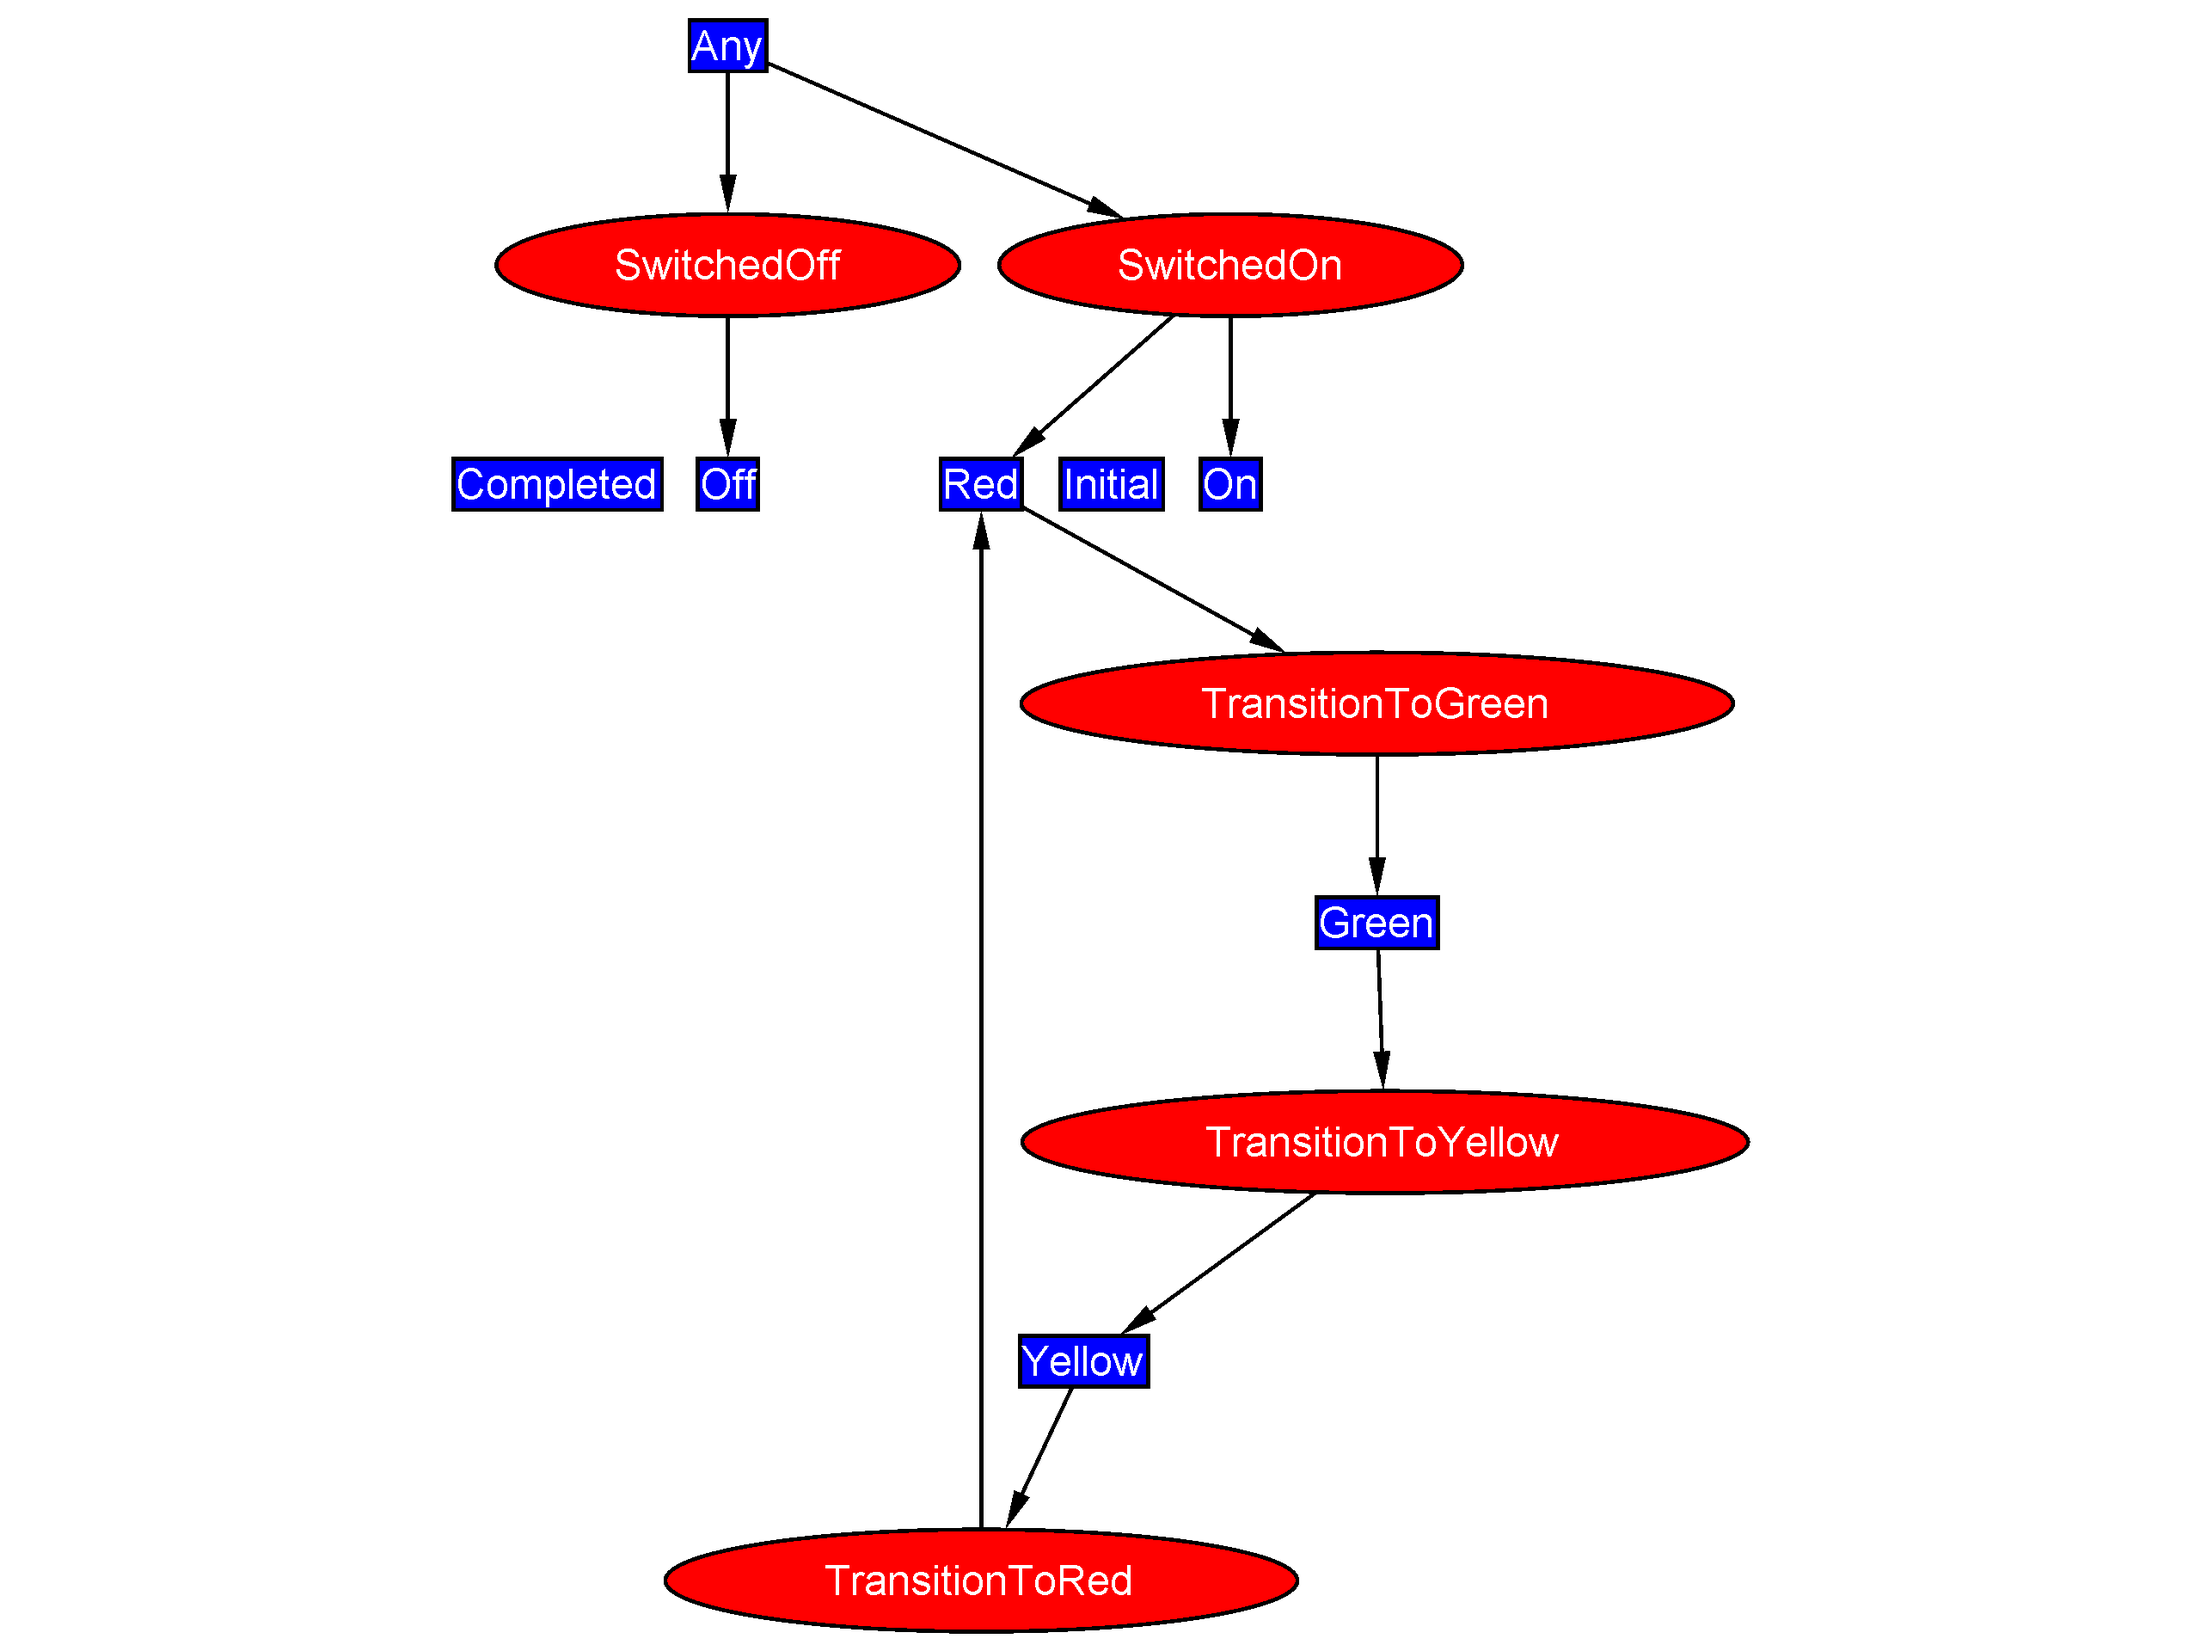
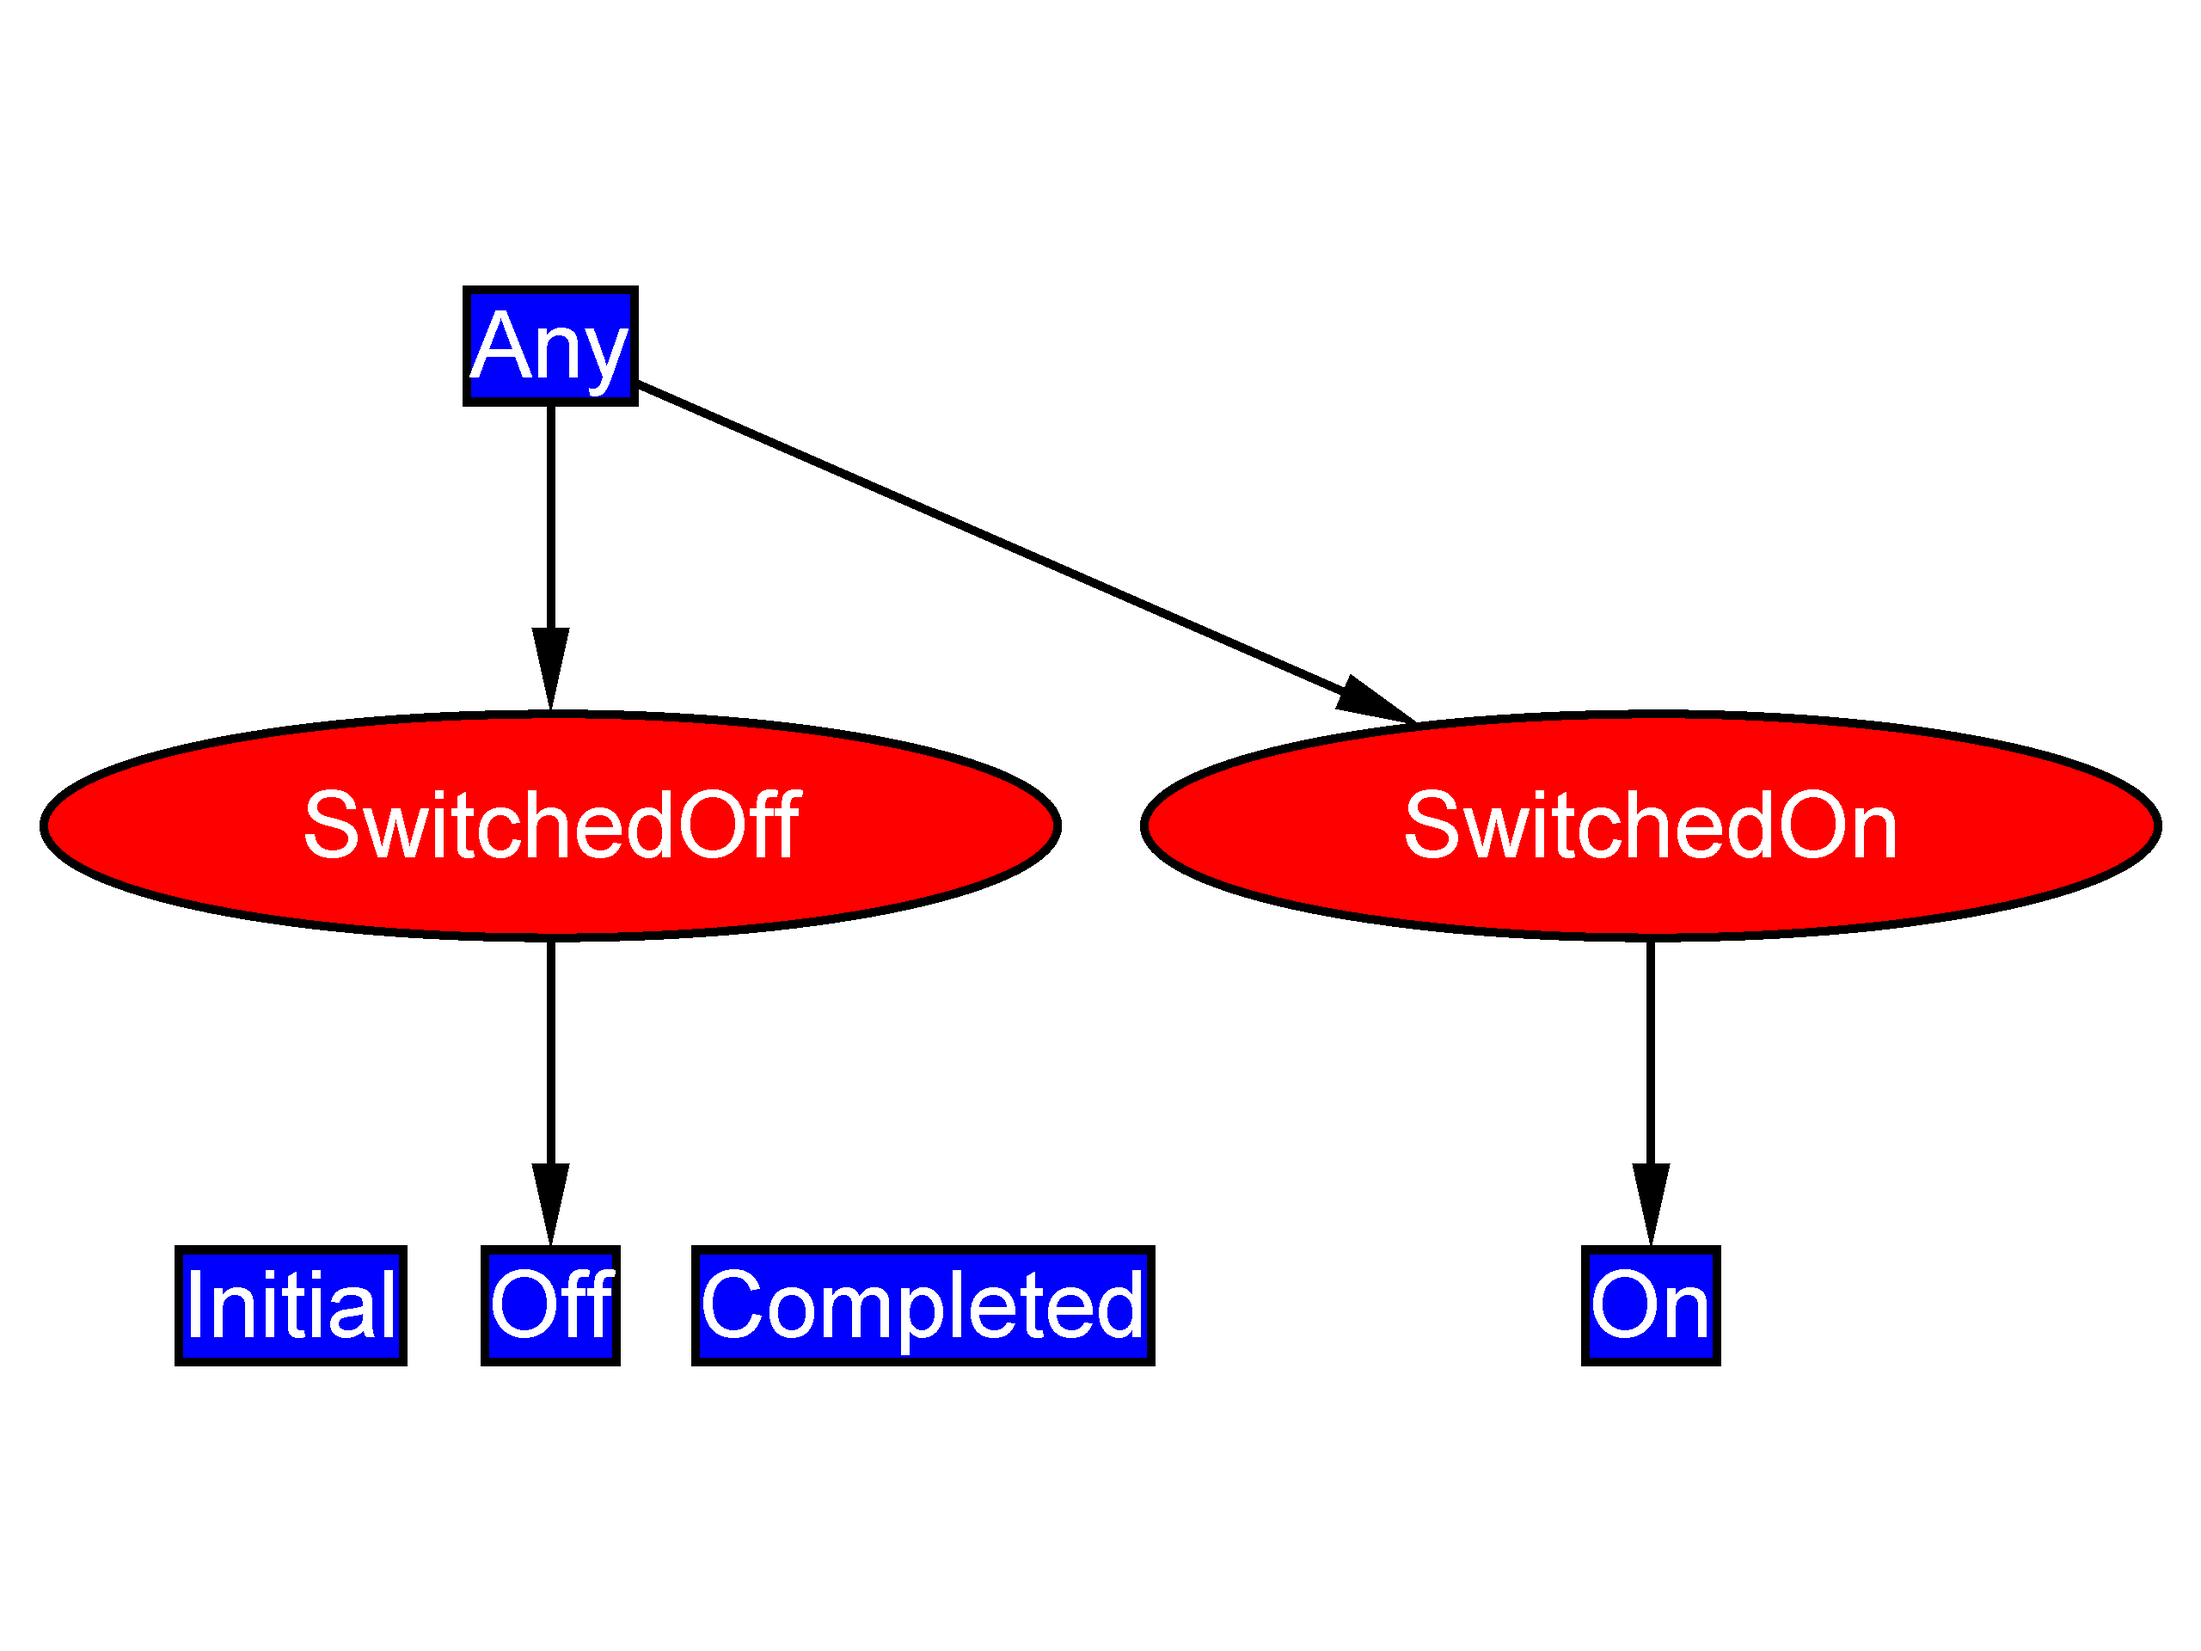
working on a traffic signal

diff --git a/src/Gumballs/Gumballs/TrafficLightMachine.cs b/src/Gumballs/Gumballs/TrafficLightMachine.cs
@@ -11,38 +11,30 @@ namespace Gumballs
         {
             Define( () =>
                         {
-                            Anytime(
-                                When(SwitchedOn)
-                                .Then( workflow => workflow.LogEvent(SwitchedOn))
-                                    .TransitionTo(On).TransitionTo(Red),
+                                Anytime(
+                                    When(SwitchedOn)
+                                        .Then( workflow => workflow.LogEvent(SwitchedOn))
+                                        .TransitionTo(On)
+                                        .Then(workflow =>
+                                                  {
+                                                      workflow.TurnSignalOn();
+                                                  }
+                                        ),
                                 When(SwitchedOff)
-                                .Then(workflow =>
-                                          {
-                                              workflow.LogEvent(SwitchedOff);
-                                              // another step
-                                              // another step...
-                                          })
+                                    .Then(workflow =>
+                                                {
+                                                    workflow.LogEvent(SwitchedOff);
+                                                    // another step
+                                                    // another step...
+                                                })
                                     .TransitionTo(Off));
-
-                            During(Red, 
-                                When(TransitionToGreen)
-                                .Then( workflow => workflow.LogEvent(SwitchedOff))
-                                .TransitionTo(Green));
-
-                            During(Green, 
-                                When(TransitionToYellow)
-                                              .TransitionTo(Yellow));
-                            During(Yellow, 
-                                When(TransitionToRed)
-                                .Then(workflow => workflow.TakePhoto())
-                                .TransitionTo(Red));
                         }
                 );
         }
 
-        private void TakePhoto()
+        private void TurnSignalOn()
         {
-            // TODO: Photograph any light runners
+            LightState.RaiseEvent(LightOperatingStates.TransitionToGreen);
         }
 
         private void LogEvent(Event triggerEvent)
@@ -51,26 +43,77 @@ namespace Gumballs
             Console.WriteLine(triggerEvent.Name);
         }
 
-        public TrafficLightMachine(){}
+        public TrafficLightMachine()
+        {
+            if (LightState == null)
+                LightState = new LightOperatingStates();
+        }
 
         public TrafficLightMachine(SerializationInfo info,
-            StreamingContext context) : base(info, context){}
+            StreamingContext context) : base(info, context)
+        {
+        }
 
         public static State Initial { get; set; }
         public static State Off { get; set; }
         public static State On { get; set; }
-
-        public static State Red { get; set; }
-        public static State Yellow { get; set; }
-        public static State Green { get; set; }
-
         public static State Completed { get; set; }
 
         public static Event SwitchedOn { get; set; }
         public static Event SwitchedOff { get; set; }
+
+        public LightOperatingStates LightState { get; set; }
+
+    }
+
+    public class LightOperatingStates : StateMachine<LightOperatingStates>
+    {
+        static LightOperatingStates()
+        {
+            Define( () =>
+                        {
+                            Anytime(
+                                When(TransitionToRed)
+                                        .TransitionTo(Red)
+                                        .Then(work => work.TakePhoto()),
+                                 When(TransitionToGreen)
+                                    .TransitionTo(Green));
+
+                            During(Red,
+                                   When(TransitionToGreen)
+                                       .Then(workflow => workflow.LogEvent(TransitionToGreen))
+                                       .TransitionTo(Green));
+
+                            During(Green,
+                                   When(TransitionToYellow)
+                                       .TransitionTo(Yellow));
+
+                            During(Yellow,
+                                   When(TransitionToRed)
+                                       .Then(workflow => workflow.TakePhoto())
+                                       .TransitionTo(Red));
+                        });
+        }
+
+        private void TakePhoto()
+        {
+            // TODO: Photograph any light runners
+            Console.WriteLine("Photo on Red");
+        }
+
+        private void LogEvent(Event triggerEvent)
+        {
+            Console.WriteLine(triggerEvent.Name);
+        }
+
+        public static State Initial { get; set; }
+        public static State Red { get; set; }
+        public static State Yellow { get; set; }
+        public static State Green { get; set; }
+        public static State Completed { get; set; }
+
         public static Event TransitionToRed { get; set; }
         public static Event TransitionToYellow { get; set; }
-
         public static Event TransitionToGreen { get; set; }
     }
 }

diff --git a/src/Gumballs/GumballMachineSpecs/TrafficLightVisualizer.cs b/src/Gumballs/GumballMachineSpecs/TrafficLightVisualizer.cs
@@ -14,11 +14,17 @@ namespace GumballMachineSpecs
         public void I_Want_To_See_The_Machine()
         {
             var machine = new TrafficLightMachine();
+            machine.RaiseEvent(TrafficLightMachine.SwitchedOn);
             var generator = new StateMachineGraphGenerator();
 
-            string filename = Path.Combine(@"C:\Users\Barry Forrest\Documents\Visual Studio 2010\Projects\GumballStateMachine\", string.Format("{0}.png", machine.GetType().Name)); 
+            string directoryPath = @"C:\Users\Barry Forrest\Documents\Visual Studio 2010\Projects\GumballStateMachine\";
+            string filename = Path.Combine(directoryPath, string.Format("{0}.png", machine.GetType().Name)); 
+
             //Path.Combine(Environment.SpecialFolder.ApplicationData.ToString(), "graph.png");
             generator.SaveGraphToFile(machine.GetGraphData(), 2560, 1920, filename);
+            generator.SaveGraphToFile(machine.LightState.GetGraphData(), 2560, 1920, 
+                Path.Combine(directoryPath, string.Format("{0}.png", machine.LightState.GetType().Name))); 
+
         }
 
         [Test]
